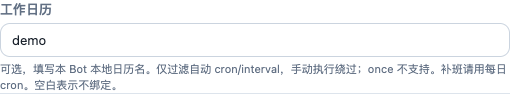
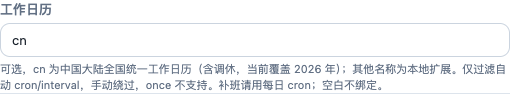
feat(scheduler): 内置中国大陆全国工作日历及官方来源

Changed region(s): [[0.0588, 0.6809, 1.0, 0.7872], [0.0, 0.8511, 0.7647, 0.9574], [0.0294, 0.383, 0.0882, 0.4894]]

diff --git a/test/work-calendar.test.ts b/test/work-calendar.test.ts
@@ -6,6 +6,7 @@ import { config } from '../src/config.js';
 import {
   checkTaskCalendar, checkWorkCalendar, normalizeCalendarBinding, parseWorkCalendar,
   previewTaskCalendar, workCalendarPath,
+  CN_CALENDAR_PROFILE,
 } from '../src/services/work-calendar.js';
 import type { ScheduledTask } from '../src/types.js';
 import { readScheduleUpdate } from '../src/cli/schedule-update.js';
@@ -27,6 +28,7 @@ beforeEach(() => {
   writeFileSync(file, JSON.stringify(fixture));
   vi.stubEnv('BOTMUX_SCHEDULE_TIMEZONE', 'Asia/Shanghai');
 });
+
 afterEach(() => {
   config.session.dataDir = previousDataDir;
   rmSync(root, { recursive: true, force: true });
@@ -103,5 +105,52 @@ describe('calendar loading, isolation and next eligible trigger', () => {
     writeFileSync(workCalendarPath(app), JSON.stringify({ version: 1, calendars: { demo: { ...definition, timeZone: 'America/New_York', workWeek: [1] } } }));
     vi.stubEnv('BOTMUX_SCHEDULE_TIMEZONE', 'America/New_York');
     expect(previewTaskCalendar({ ...task, parsed: { ...task.parsed, expr: '* * * * *' } }, app, new Date('2028-03-12T06:00:00Z'))?.nextEligibleRunAt).toBe('2028-03-13T04:00:00.000Z');
+  });
+});
+
+describe('mainland China official 2026 snapshot', () => {
+  const cnTask = { ...task, calendar: 'cn' };
+  it('matches all 365 days against the seven official rest ranges and six makeup dates', () => {
+    // Independently transcribed from 国办发明电〔2025〕7号, not generated from the bundled date arrays.
+    const ranges = [
+      ['2026-01-01', '2026-01-03'], ['2026-02-15', '2026-02-23'],
+      ['2026-04-04', '2026-04-06'], ['2026-05-01', '2026-05-05'],
+      ['2026-06-19', '2026-06-21'], ['2026-09-25', '2026-09-27'], ['2026-10-01', '2026-10-07'],
+    ];
+    const makeup = new Set(['2026-01-04', '2026-02-14', '2026-02-28', '2026-05-09', '2026-09-20', '2026-10-10']);
+    const calendar = parseWorkCalendar(CN_CALENDAR_PROFILE.calendar);
+    expect(calendar.restDates).toHaveLength(33);
+    expect(calendar.workDates).toHaveLength(6);
+    for (let day = new Date('2026-01-01T01:00:00Z'); day.getUTCFullYear() === 2026; day = new Date(+day + 86_400_000)) {
+      const date = day.toISOString().slice(0, 10);
+      const rest = ranges.some(([start, end]) => date >= start && date <= end);
+      const working = makeup.has(date) || (!rest && day.getUTCDay() >= 1 && day.getUTCDay() <= 5);
+      expect(checkTaskCalendar(cnTask, app, day), date).toMatchObject({ date, timeZone: 'Asia/Shanghai', status: working ? 'working' : 'rest' });
+    }
+    expect(CN_CALENDAR_PROFILE).toMatchObject({ region: 'CN', dataVersion: '2026.1', source: {
+      authority: '国务院办公厅', documentNo: '国办发明电〔2025〕7号', publishedAt: '2025-11-04',
+    } });
+  });
+  it('requires no local file and cannot be replaced by a bot-local cn definition', () => {
+    rmSync(workCalendarPath(app));
+    expect(checkTaskCalendar(cnTask, app, new Date('2026-10-01T01:00:00Z'))).toMatchObject({ status: 'rest', reason: 'rest_date' });
+    writeFileSync(workCalendarPath(app), '{broken');
+    expect(checkTaskCalendar(cnTask, app, new Date('2026-10-10T01:00:00Z'))).toMatchObject({ status: 'working', reason: 'work_date' });
+    writeFileSync(workCalendarPath(app), JSON.stringify({ version: 1, calendars: { cn: { ...definition, coverage: { start: '2026-01-01', end: '2026-12-31' }, restDates: [], workDates: [], workWeek: [] } } }));
+    expect(checkTaskCalendar(cnTask, app, new Date('2026-10-10T01:00:00Z'))).toMatchObject({ status: 'working', reason: 'work_date' });
+    expect(checkTaskCalendar({ ...task, calendar: 'absent' }, app, new Date('2026-10-10T01:00:00Z'))).toMatchObject({ status: 'error', reason: 'calendar_missing' });
+  });
+  it.each([
+    ['2025-12-31T15:59:59Z', 'error', '2025-12-31'],
+    ['2025-12-31T16:00:00Z', 'rest', '2026-01-01'],
+    ['2026-12-31T15:59:59Z', 'working', '2026-12-31'],
+    ['2026-12-31T16:00:00Z', 'error', '2027-01-01'],
+  ])('uses the CN date and stops outside confirmed coverage at %s', (instant, status, date) => {
+    expect(checkTaskCalendar(cnTask, app, new Date(instant))).toMatchObject({ status, date });
+    if (status === 'error') expect(checkTaskCalendar(cnTask, app, new Date(instant))?.reason).toBe('calendar_out_of_coverage');
+  });
+  it('previews the official Saturday makeup trigger and reports unknown next-year data', () => {
+    expect(previewTaskCalendar(cnTask, app, new Date('2026-10-09T02:00:00Z'))?.nextEligibleRunAt).toBe('2026-10-10T01:00:00.000Z');
+    expect(previewTaskCalendar(cnTask, app, new Date('2026-12-31T02:00:00Z'))).toMatchObject({ nextEligibleRunAt: null, calendarCheck: { reason: 'calendar_out_of_coverage' } });
   });
 });

diff --git a/src/dashboard/web/i18n.ts b/src/dashboard/web/i18n.ts
@@ -1343,7 +1343,7 @@ const zh = {
   'schedules.calendarReason.schedule_exhausted': '没有后续调度候选',
   'schedules.calendarReason.manual_bypass': '手动执行，绕过日历',
   'schedules.form.calendar': '工作日历',
-  'schedules.form.calendarHelp': '可选，填写本 Bot 本地日历名。仅过滤自动 cron/interval，手动执行绕过；once 不支持。补班请用每日 cron。空白表示不绑定。',
+  'schedules.form.calendarHelp': '可选，cn 为中国大陆全国统一工作日历（含调休，当前覆盖 2026 年）；其他名称为本地扩展。仅过滤自动 cron/interval，手动绕过，once 不支持。补班请用每日 cron；空白不绑定。',
   'schedules.logs.outcomeCalendarSkipped': '日历休息日，已跳过',
   'schedules.logs.preconditionNotChecked': '未检查（日历已阻止执行）',
   'schedules.last': '上次',
@@ -4606,7 +4606,7 @@ const en: Record<keyof typeof zh, string> = {
   'schedules.calendarReason.schedule_exhausted': 'No future schedule candidate',
   'schedules.calendarReason.manual_bypass': 'Manual run, calendar bypassed',
   'schedules.form.calendar': 'Work calendar',
-  'schedules.form.calendarHelp': 'Optional local calendar name for this bot. Filters automatic cron/interval only; manual runs bypass it, once is unsupported. Use daily cron for makeup workdays. Leave blank to unbind.',
+  'schedules.form.calendarHelp': 'Optional: cn is the mainland China national work calendar, including makeup days (currently covers 2026); other names are local extensions. Filters automatic cron/interval; manual runs bypass it, once is unsupported. Use daily cron for makeup days; leave blank to unbind.',
   'schedules.logs.outcomeCalendarSkipped': 'Calendar rest day, skipped',
   'schedules.logs.preconditionNotChecked': 'Not checked (calendar blocked dispatch)',
   'schedules.last': 'Last',

diff --git a/test/schedule-cli-update.test.ts b/test/schedule-cli-update.test.ts
@@ -181,6 +181,23 @@ describe('schedule CLI prompt updates', () => {
 });
 
 describe('work calendar CLI configuration and persisted manual intent', () => {
+  it('lists the bundled CN region, coverage and official source without a local calendar file', async () => {
+    const f = fixture();
+    const listed = await f.run(['calendars']);
+    expect(listed.code, listed.output).toBe(0);
+    const cn = listed.output.split('\n').filter(line => line.startsWith('{')).map(line => JSON.parse(line)).find(row => row.name === 'cn');
+    expect(cn).toMatchObject({ name: 'cn', kind: 'builtin', region: 'CN', dataVersion: '2026.1',
+      timeZone: 'Asia/Shanghai', coverage: { start: '2026-01-01', end: '2026-12-31' },
+      source: { authority: '国务院办公厅', documentNo: '国办发明电〔2025〕7号' } });
+    const updated = await f.run(['update', f.task.id, '--calendar', 'cn']);
+    expect(updated.code, updated.output).toBe(0);
+    expect(f.read()[f.task.id]).toMatchObject({ calendar: 'cn', ownerOpenId: f.task.ownerOpenId });
+    const local = join(f.root, '.botmux', 'bots', app, 'work-calendars.json');
+    writeFileSync(local, JSON.stringify({ version: 1, calendars: { cn: {} } }));
+    const shadowed = await f.run(['calendars']);
+    expect(shadowed.code, shadowed.output).toBe(0);
+    expect(shadowed.output).toContain('reserved_builtin_calendar');
+  });
   it('binds, reads in another process and clears a calendar without changing routing/owner', async () => {
     const f = fixture();
     const before = f.read()[f.task.id];

diff --git a/src/services/work-calendar.ts b/src/services/work-calendar.ts
@@ -1,4 +1,4 @@
-/** Local, per-bot work calendars. No network or inferred holiday data. */
+/** Bundled CN calendar and per-bot extension profiles. No runtime network or inferred holidays. */
 import { readFileSync, statSync } from 'node:fs';
 import { dirname, join } from 'node:path';
 import { Cron } from 'croner';
@@ -7,6 +7,10 @@ import { botHomePath } from '../adapters/cli/read-isolation.js';
 import { config } from '../config.js';
 import { scheduleTimeZone } from '../utils/timezone.js';
 import type { ScheduledTask } from '../types.js';
+import cn2026 from './work-calendars/cn-2026.json' with { type: 'json' };
+
+/** Only supported statutory region in this release; provenance travels with the versioned snapshot. */
+export const CN_CALENDAR_PROFILE = cn2026;
 
 const NAME = /^[a-zA-Z0-9][a-zA-Z0-9_-]{0,63}$/;
 const MAX_BYTES = 1024 * 1024;
@@ -80,6 +84,9 @@ export function readWorkCalendarDefinitions(appId: string, dataDir = config.sess
 function resolveCalendar(name: unknown, appId: string | undefined): WorkCalendar {
   if (!appId) throw new Error('calendar_scope_missing');
   if (!normalizeCalendarBinding(name)) throw new Error('calendar_invalid');
+  // Reserved built-in name. Bot-local files cannot silently replace national data.
+  // Static import works in Node dist and Bun standalone binaries alike.
+  if (name === 'cn') return parseWorkCalendar(CN_CALENDAR_PROFILE.calendar);
   let definitions: Record<string, unknown>;
   try { definitions = readWorkCalendarDefinitions(appId); }
   catch (error) {

diff --git a/src/cli.ts b/src/cli.ts
@@ -7635,10 +7635,22 @@ async function cmdSchedule(sub: string, rest: string[]): Promise<void> {
   }
 
   if (sub === 'calendars') {
-    const { readWorkCalendarDefinitions, parseWorkCalendar } = await import('./services/work-calendar.js');
+    const { CN_CALENDAR_PROFILE, readWorkCalendarDefinitions, parseWorkCalendar } = await import('./services/work-calendar.js');
     const appId = scheduleStore.getScheduleScope();
     if (!appId) throw new Error('calendar_scope_missing');
-    for (const [name, value] of Object.entries(readWorkCalendarDefinitions(appId))) {
+    const { calendar: cnCalendar, ...cnProvenance } = CN_CALENDAR_PROFILE;
+    console.log(JSON.stringify({ name: 'cn', kind: 'builtin', ...cnProvenance, ...parseWorkCalendar(cnCalendar) }));
+    let definitions: Record<string, unknown>;
+    try { definitions = readWorkCalendarDefinitions(appId); }
+    catch (error) {
+      if ((error as NodeJS.ErrnoException).code === 'ENOENT') return;
+      throw error;
+    }
+    for (const [name, value] of Object.entries(definitions)) {
+      if (name === 'cn') {
+        console.log(JSON.stringify({ name, kind: 'local', error: 'reserved_builtin_calendar' }));
+        continue;
+      }
       try { console.log(JSON.stringify({ name, ...parseWorkCalendar(value) })); }
       catch { console.log(JSON.stringify({ name, error: 'calendar_invalid' })); }
     }

diff --git a/test/scheduler-calendar.test.ts b/test/scheduler-calendar.test.ts
@@ -76,6 +76,22 @@ async function advance(ms = 60_000) { await vi.advanceTimersByTimeAsync(ms); }
 function snapshot(id: string) { return JSON.parse(readFileSync(scheduleFilePathFor(APP), 'utf8'))[id]; }
 
 describe('calendar admission before task side effects', () => {
+  it.each([
+    ['2026-10-01T01:00:00Z', false],
+    ['2026-10-10T01:00:00Z', true],
+    ['2027-01-01T01:00:00Z', false],
+  ])('admits CN official rest/makeup/unknown dates before Bash at %s', async (now, allowed) => {
+    vi.setSystemTime(new Date(now));
+    rmSync(workCalendarPath(APP));
+    const task = create('cn');
+    const gate = installGate();
+    startScheduler();
+    await advance();
+    expect(gate.bash).toHaveBeenCalledTimes(allowed ? 1 : 0);
+    expect(gate.model).toHaveBeenCalledTimes(allowed ? 1 : 0);
+    expect(snapshot(task.id)).toMatchObject({ calendar: 'cn', repeat: { completed: allowed ? 1 : 0 } });
+    if (!allowed) expect(snapshot(task.id).lastCalendarCheck).toMatchObject({ reason: now.startsWith('2027') ? 'calendar_out_of_coverage' : 'rest_date' });
+  });
   it('skips before Bash/model, preserves repeat/follow-active/multi-chat and records a non-failure reason', async () => {
     const task = create('demo', { chatIds: ['fixture_chat', 'fixture_chat_2'], executionPosition: 'new-topic' });
     const gate = installGate();

diff --git a/test/dashboard-ipc.test.ts b/test/dashboard-ipc.test.ts
@@ -5890,6 +5890,12 @@ describe('POST/PATCH /api/schedules — local work calendar', () => {
       scheduleStore.updateTask(task.id, { nextRunAt: '2028-01-08T01:00:00.000Z' });
       const listed = (await (await fetch(`${base}/api/schedules`)).json()).schedules.find((row: any) => row.id === task.id);
       expect(listed).toMatchObject({ calendar: 'demo', nextEligibleRunAt: '2028-01-08T01:00:00.000Z' });
+      // Built-in CN works through the same API and does not read the corrupt local extension file.
+      writeFileSync(workCalendarPath(app), '{broken');
+      const cn = await patch({ calendar: 'cn' });
+      expect(cn.status).toBe(200);
+      expect((await cn.json()).task).toMatchObject({ calendar: 'cn', calendarCheck: { timeZone: 'Asia/Shanghai' } });
+      writeFileSync(workCalendarPath(app), JSON.stringify(fixture));
       // Missing definitions remain diagnostic and never change unbound tasks.
       const missing = await patch({ calendar: 'absent' });
       expect((await missing.json()).task).toMatchObject({ calendar: 'absent', calendarCheck: { reason: 'calendar_missing' } });

diff --git a/src/dashboard/web/schedules-page.tsx b/src/dashboard/web/schedules-page.tsx
@@ -2725,7 +2725,7 @@ export function ScheduleFormModal(props: {
         ) : null}
         <label className="schedule-form-field">
           <span className="schedule-form-label">{tr('schedules.form.calendar')}</span>
-          <input value={calendar} onChange={e => setCalendar(e.target.value)} placeholder="team-work" />
+          <input value={calendar} onChange={e => setCalendar(e.target.value)} placeholder="cn" />
           <small className="schedule-form-help">{tr('schedules.form.calendarHelp')}</small>
         </label>
         <label className="schedule-form-field">

diff --git a/docs-site/docs/zh/schedule.md b/docs-site/docs/zh/schedule.md
@@ -211,7 +211,26 @@ botmux schedule update <id> --prompt "新的完整提示词"
 
 ## 可选工作日历
 
-发布、日报和提醒可以绑定本 Bot 的命名工作日历。未绑定的存量任务保持原有行为；日历由本地 JSON 提供，调度 tick 不访问网络，也不让模型判断节假日。本功能提供通用 schema，**不内置中国或其他国家的法定节假日数据**。
+发布、日报和提醒可以按任务绑定工作日历。未绑定的存量任务保持原有行为；调度 tick 读取本地数据，不访问网络，也不让模型判断节假日。
+
+### 中国大陆全国统一工作日历
+
+首期内置的法定日历只有 `cn`：中国大陆全国统一放假调休安排，时区为 `Asia/Shanghai`，包含平日放假和周末补班。**当前已核实覆盖 2026-01-01 至 2026-12-31**，无需创建 Bot 本地日历文件即可使用：
+
+```bash
+botmux schedule add "0 9 * * *" "生成日报" --calendar cn
+botmux schedule calendars
+```
+
+2026 年的权威依据是[国务院办公厅关于2026年部分节假日安排的通知](https://www.gov.cn/zhengce/zhengceku/202511/content_7047091.htm)（国办发明电〔2025〕7号，2025-11-04 发布）；也可通过[北京市政府转载全文](https://www.beijing.gov.cn/zhengce/zhengcefagui/202511/t20251104_4258873.html)逐项核对。仓库的 `src/services/work-calendars/cn-2026.json` 保存日期、地区、适用范围、来源链接、文号、发布日期和数据版本；`schedule calendars` 输出这些来源信息。
+
+这里的“工作日”采用周一至周五基准，应用官方年度通知中的放假和补班覆盖，表示全国统一调休日历，不是所有单位、人员的实际出勤安排。地方额外节日、部分人群半日假、企业排班、港澳台及其他国家日历均不在首期内置范围内；通用本地 profile 保留为扩展能力，时区不能代替地区选择。
+
+年度数据通过读取官方通知、核对全部放假区间和补班日期、更新仓库快照及日期测试后随版本发布。更新入口与调度执行分开，不将网页抓取或第三方在线 API 放进 tick。覆盖范围外（包括尚未核实的 2027 年）返回 `calendar_out_of_coverage` 并停止自动执行，不推算或沿用上一年的安排；跨年前需升级包含下一年已核实数据的版本。
+
+`cn` 是保留的内置名称，Bot 本地文件无法覆盖它。缺失或损坏的本地扩展文件不会影响 `cn`，也不会把其他缺失名称自动降级成 `cn`。
+
+### 本地 profile 扩展
 
 在默认配置下，将下面格式的文件保存到 `~/.botmux/bots/<appId>/work-calendars.json`（与该 Bot 的 `schedules.json` 同目录）。自定义数据目录时仍使用任务存储所在目录；不同 Bot 的日历各自隔离，可以使用相同名称。建议将源文件纳入自己的版本管理，通过原子替换更新部署文件；下一次自动检查会读取新内容，无需重启 daemon。
 
@@ -242,26 +261,26 @@ botmux schedule update <id> --prompt "新的完整提示词"
 | `restDates` | 覆盖默认星期的明确休息日期 |
 | `workDates` | 覆盖默认星期的明确工作日期（如周末补班） |
 
-所有定义字段均必填；日期必须有效且处于覆盖范围内。重复日期、同一天同时列入休息和工作、重复星期、非法时区或反向覆盖区间都会拒绝该定义。文件最大 1 MiB。某个定义损坏不影响其他有效定义，但整个文件格式损坏会阻止所有绑定该文件的自动任务。
+所有定义字段均必填；日期必须有效且处于覆盖范围内。重复日期、同一天同时列入休息和工作、重复星期、非法时区或反向覆盖区间都会拒绝该定义。文件最大 1 MiB。某个定义损坏不影响其他有效定义，但整个文件格式损坏会阻止所有绑定该文件的自动任务；内置 `cn` 不受影响。
 
 ### 绑定和回读
 
 ```bash
 # 每天产生 9:00 的候选触发，再按日历过滤
-botmux schedule add "0 9 * * *" "生成日报" --calendar demo
+botmux schedule add "0 9 * * *" "生成日报" --calendar cn
 
 # 读取本 Bot 日历定义与任务的日历预览
 botmux schedule calendars
 botmux schedule list
 
 # 更新或移除绑定，保留原来的 prompt、投递位置和 owner
-botmux schedule update <task-id> --calendar demo
+botmux schedule update <task-id> --calendar cn
 botmux schedule update <task-id> --calendar none
 ```
 
 CLI 的 `--calendar none` 是移除绑定的保留值，不作为日历名使用。绑定了受保护 Bash precondition 的任务需在 Dashboard 编辑，以便同时更新其 canonical input 绑定。
 
-Dashboard 创建/编辑任务时可填写“工作日历”名称，留空取消绑定。任务行显示原始“下次”触发、日历名称、日历判断原因和“日历允许的下次触发”。API 的创建/更新 DTO 使用 `calendar: "demo"`，更新时 `calendar: null` 清除；列表回读包含 `calendar`、`calendarCheck`、`nextEligibleRunAt`，以及最近一次检查的 `lastCalendarCheck`。
+Dashboard 创建/编辑任务时可填写“工作日历”名称，中国大陆全国统一安排填 `cn`，留空取消绑定。任务行显示原始“下次”触发、日历名称、日历判断原因和“日历允许的下次触发”。API 的创建/更新 DTO 使用 `calendar: "cn"`，更新时 `calendar: null` 清除；列表回读包含 `calendar`、`calendarCheck`、`nextEligibleRunAt`，以及最近一次检查的 `lastCalendarCheck`。
 
 日历允许的下次触发是预览：它只过滤已有 cron/interval 候选，不保证 Bash precondition 通过、模型成功或消息投递成功。原始 `nextRunAt` 保留原调度语义。扫描最多 10,000 个候选本地日期；无法确认时返回 `null` 和明确原因（如 `search_limit` / `calendar_out_of_coverage`），不退化成周一至周五。
 
@@ -280,7 +299,7 @@ Dashboard 创建/编辑任务时可填写“工作日历”名称，留空取消
 
 ### 业务迁移
 
-要按法定工作日运行，先依据官方来源核实覆盖年份、完整放假/补班日期及数据使用许可，准备真实 profile，再用 **daily cron + calendar**。`0 9 * * 1-5` 本身没有周末候选，绑定日历不能创造周末触发。
+要按中国大陆全国统一工作日运行，核对内置 `cn` 的覆盖年份，再用 **daily cron + calendar**。本地扩展需自行核实来源和日期。`0 9 * * 1-5` 本身没有周末候选，绑定日历不能创造周末触发。
 
 如果业务 worker 自己硬编码 `weekday < 5`，后续还需去除重复的星期过滤，否则调度器允许的周末补班仍会被 worker 跳过。本功能不会修改业务 worker。
 
